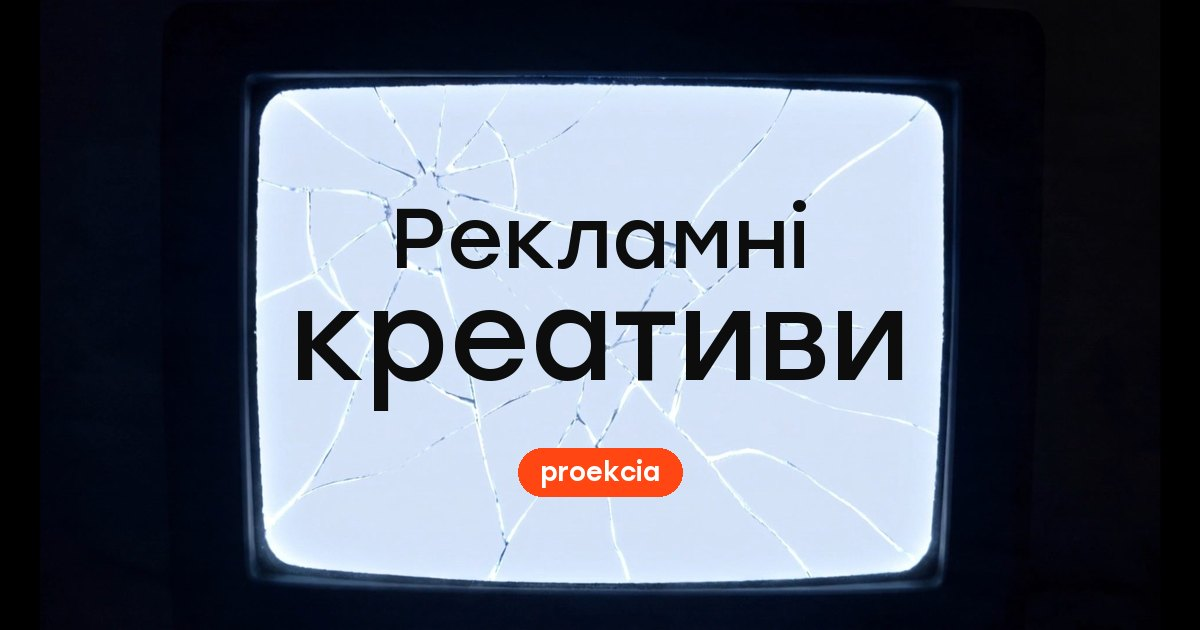
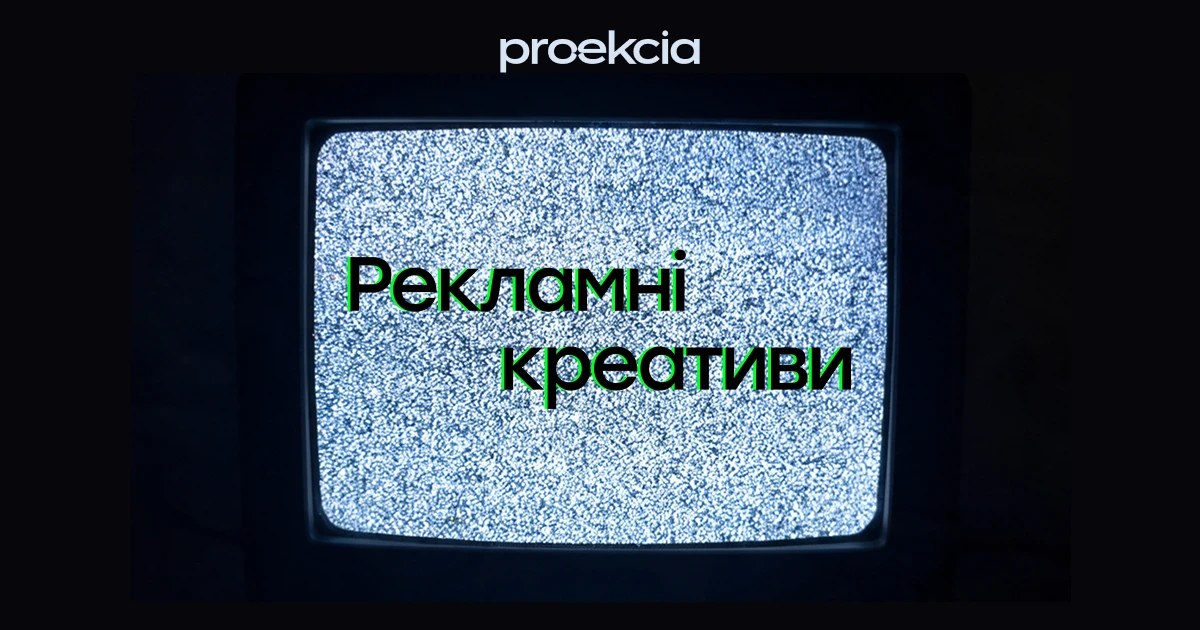
L3 landing: нова картинка прев'ю посилання

diff --git a/landings/l3-kreatyvy/index.html b/landings/l3-kreatyvy/index.html
@@ -11,12 +11,12 @@
 <meta property="og:title" content="Рекламні креативи — Proekcia">
 <meta property="og:description" content="Креативи, що продають і будують бренд: банери, відео, адаптації під формати та запуск реклами.">
 <meta property="og:url" content="https://proekcia.github.io/landings/l3-kreatyvy/">
-<meta property="og:image" content="https://proekcia.github.io/landings/l3-kreatyvy/images/og.jpg">
+<meta property="og:image" content="https://proekcia.github.io/landings/l3-kreatyvy/images/og.jpg?v=2">
 <meta property="og:image:width" content="1200">
 <meta property="og:image:height" content="630">
 <meta property="og:locale" content="uk_UA">
 <meta name="twitter:card" content="summary_large_image">
-<meta name="twitter:image" content="https://proekcia.github.io/landings/l3-kreatyvy/images/og.jpg">
+<meta name="twitter:image" content="https://proekcia.github.io/landings/l3-kreatyvy/images/og.jpg?v=2">
 <link rel="icon" href="assets/logo/Icon_logo_black.svg">
 <link rel="preload" href="images/hero/tv.jpg" as="image">
 <link rel="preconnect" href="https://fonts.googleapis.com">
